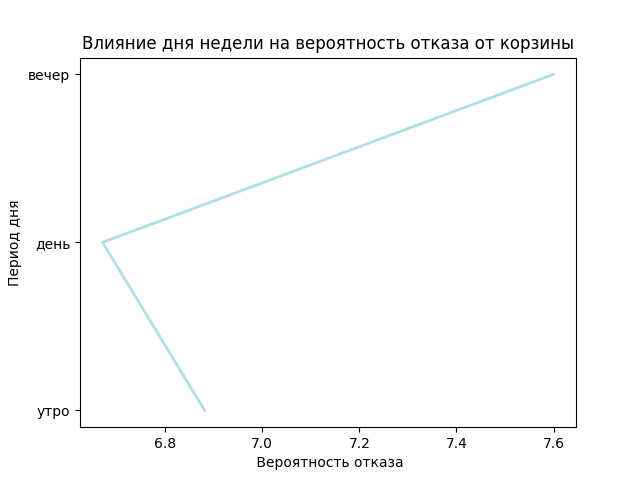
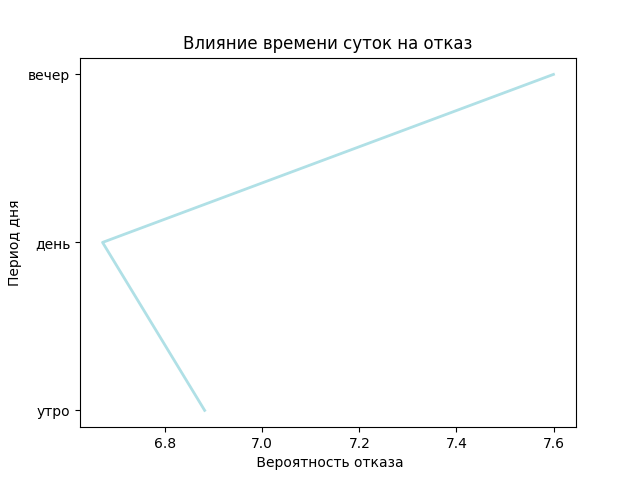
Rename diagram

Changed region(s): [[0.125, 0.0625, 0.9062, 0.125]]

diff --git a/influence_of_the_part_of_the_day.py b/influence_of_the_part_of_the_day.py
@@ -3,7 +3,7 @@ import itertools
 
 import matplotlib.pyplot as plt
 
-DIAGRAM_TITLE = "Влияние дня недели на вероятность отказа от корзины"
+DIAGRAM_TITLE = "Влияние времени суток на отказ"
 HORIZONTAL_TITLE = "Колиество отказов"
 HORIZONTAL_TITLE_BASED_ON_PERCENTAGE = " Вероятность отказа"
 VERTICAL_TITLE = "Период дня"
